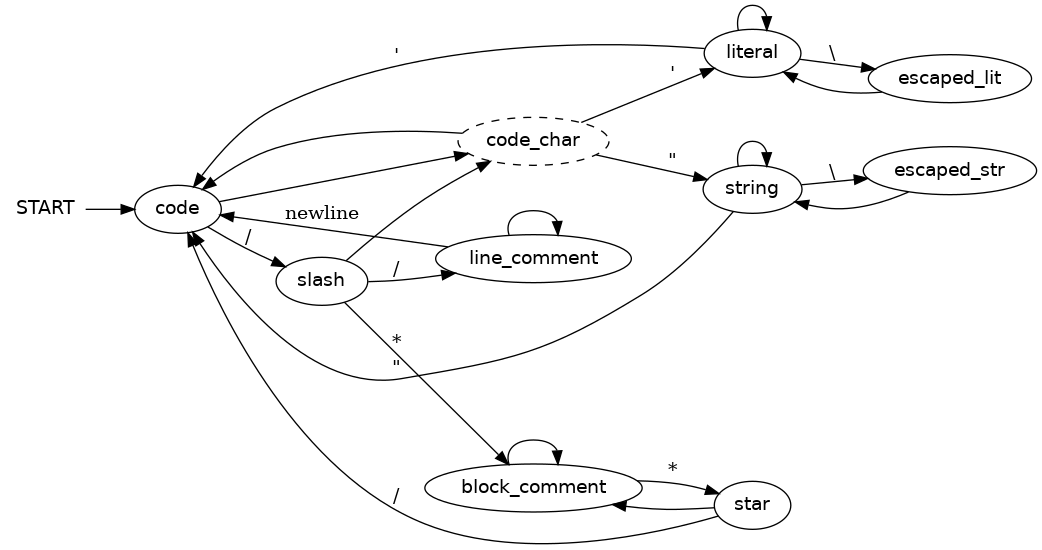
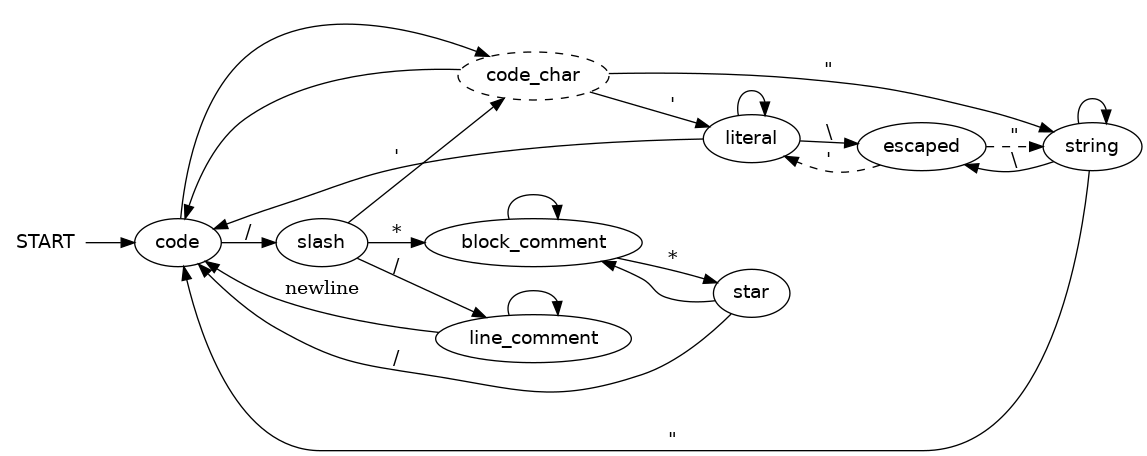
Modified uncomment example

diff --git a/demo/uncomment.c b/demo/uncomment.c
@@ -43,31 +43,27 @@ void uncomment(FILE *in, FILE *out)
      
     fsmstate(string) {
       if ((c = fgetc(in)) == EOF) fsmexit; 
-      if ((c == '\\')) fsmgoto(escaped_str);
+      if ((c == '\\')) fsmgoto(escaped);
       fputc(c,out);
       if (c == '"') fsmgoto(code);
       fsmgoto(string);
     }
    
-    fsmstate(escaped_str) {
-      fputc(c,out);
-      if ((c = fgetc(in)) == EOF) fsmexit; 
-      fputc(c,out);
-      fsmgoto(string);
-    }
-
     fsmstate(literal) {
       if ((c = fgetc(in)) == EOF) fsmexit; 
-      if ((c == '\\')) fsmgoto(escaped_lit);
+      if ((c == '\\')) fsmgoto(escaped);
       fputc(c,out);
       if (c == '\'') fsmgoto(code);
       fsmgoto(literal);
     }
-   
-    fsmstate(escaped_lit) {
-      fputc(c,out);
+
+    fsmstate(escaped) {
+      int quote;
+      quote = c;
+      fputc(quote, out);
       if ((c = fgetc(in)) == EOF) fsmexit; 
-      fputc(c,out);
+      fputc(c, out);
+      if (quote == '"') fsmgoto(string);
       fsmgoto(literal);
     }
 
